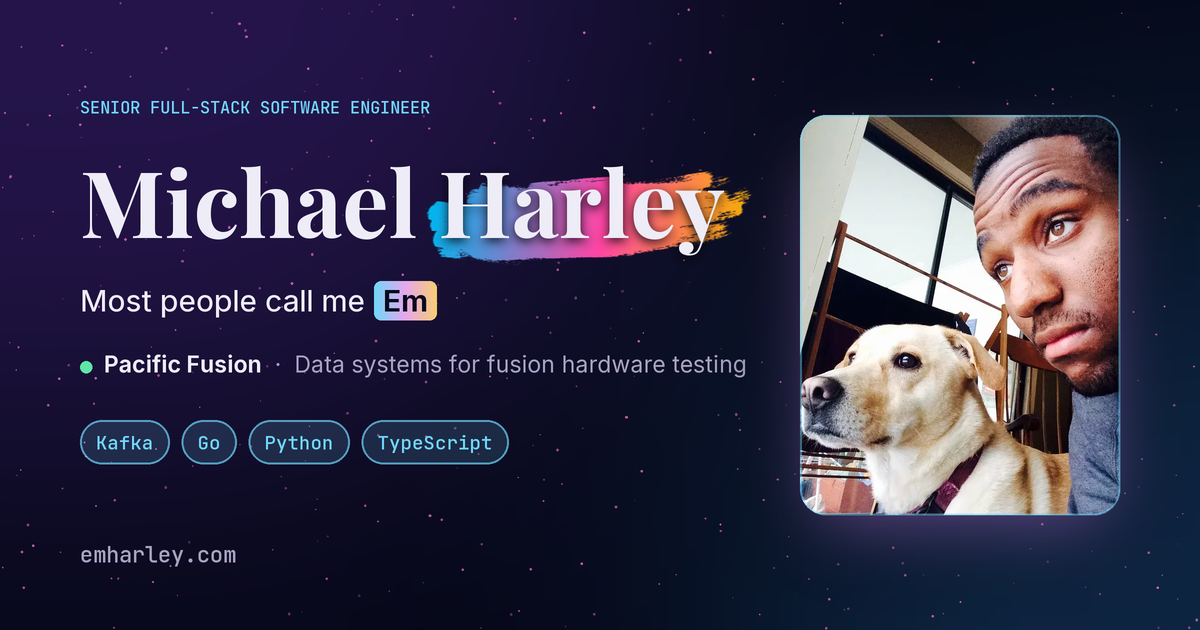
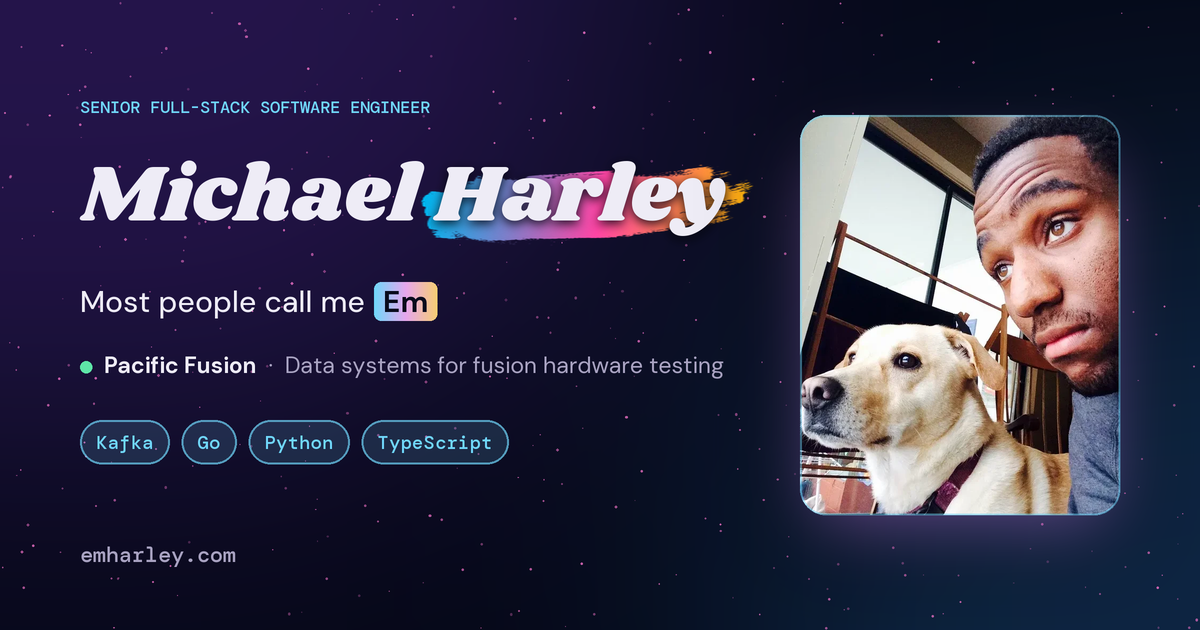
Switch to Shrikhand, DM Sans, and DM Mono
Shrikhand is kept to the hero name, section and page titles, and the
nav brand; longer headings use bold DM Sans. The social preview is
regenerated with the new fonts.

diff --git a/src/index.css b/src/index.css
@@ -1,8 +1,7 @@
-@import '@fontsource/playfair-display/latin-600.css';
-@import '@fontsource/playfair-display/latin-700.css';
-@import '@fontsource-variable/inter/wght.css';
-@import '@fontsource/jetbrains-mono/latin-400.css';
-@import '@fontsource/jetbrains-mono/latin-500.css';
+@import '@fontsource/shrikhand/latin-400.css';
+@import '@fontsource-variable/dm-sans/wght.css';
+@import '@fontsource/dm-mono/latin-400.css';
+@import '@fontsource/dm-mono/latin-500.css';
 /* Only scan src/ for class names (not docs or design mockups). */
 @import 'tailwindcss' source('.');
 
@@ -11,9 +10,9 @@
  * text-muted, and border-line; each --font-* becomes font-serif etc.
  */
 @theme {
-  --font-sans: 'Inter Variable', system-ui, sans-serif;
-  --font-serif: 'Playfair Display', Georgia, serif;
-  --font-mono: 'JetBrains Mono', ui-monospace, monospace;
+  --font-sans: 'DM Sans Variable', system-ui, sans-serif;
+  --font-serif: 'Shrikhand', Georgia, serif;
+  --font-mono: 'DM Mono', ui-monospace, monospace;
 
   /* rem, like Tailwind's built-in sm/xl, so all breakpoints sort correctly. */
   --breakpoint-md: 48rem; /* 768px */
@@ -102,6 +101,10 @@
   body {
     min-width: 320px;
     line-height: 1.65;
+  }
+  /* Shrikhand has one weight; never fake a bold version of it. */
+  .font-serif {
+    font-synthesis-weight: none;
   }
   /* Long words (e.g. "Medicare-compliant") break instead of overflowing at large text sizes. */
   h1,

diff --git a/src/pages/FaqPage.tsx b/src/pages/FaqPage.tsx
@@ -69,7 +69,10 @@ export default function FaqPage() {
             className="flex flex-wrap items-center justify-between gap-6 rounded-2xl border border-line bg-surface p-7"
           >
             <div>
-              <h2 id="faq-contact" className="font-serif text-2xl font-bold">
+              <h2
+                id="faq-contact"
+                className="text-2xl font-bold tracking-tight"
+              >
                 Still have a question?
               </h2>
               <p className="mt-1 text-muted">

diff --git a/src/components/AiInProduction.tsx b/src/components/AiInProduction.tsx
@@ -10,7 +10,7 @@ export default function AiInProduction() {
       <p className="eyebrow text-sm text-violet">AI in production</p>
       <h3
         id="ai-heading"
-        className="mt-3 max-w-[34em] font-serif text-2xl leading-snug font-bold md:text-3xl"
+        className="mt-3 max-w-[34em] text-2xl leading-snug font-bold tracking-tight md:text-3xl"
       >
         I put AI where it changes an outcome, and I measure it by the result.
       </h3>

diff --git a/src/components/CaseStudy.tsx b/src/components/CaseStudy.tsx
@@ -87,7 +87,7 @@ export default function CaseStudy(study: CaseStudyData) {
           <p className="eyebrow text-sm text-violet">{sector}</p>
           <h2
             id={`${id}-title`}
-            className="mt-2.5 font-serif text-[length:clamp(1.9rem,3.4vw,2.6rem)] leading-tight font-bold"
+            className="mt-2.5 text-[length:clamp(1.9rem,3.4vw,2.6rem)] leading-tight font-bold tracking-tight"
           >
             {title}
           </h2>

diff --git a/src/pages/CaseStudiesPage.tsx b/src/pages/CaseStudiesPage.tsx
@@ -64,7 +64,7 @@ export default function CaseStudiesPage() {
             <div>
               <h2
                 id="case-studies-contact"
-                className="font-serif text-2xl font-bold"
+                className="text-2xl font-bold tracking-tight"
               >
                 Want to go deeper on any of these?
               </h2>

diff --git a/src/components/ContactDialog.tsx b/src/components/ContactDialog.tsx
@@ -26,7 +26,7 @@ export default function ContactDialog() {
             <div>
               <h2
                 id="contact-dialog-title"
-                className="font-serif text-2xl font-bold"
+                className="text-2xl font-bold tracking-tight"
               >
                 Send me a message
               </h2>

diff --git a/scripts/brand-assets.py b/scripts/brand-assets.py
@@ -16,9 +16,9 @@ from fontTools.pens.transformPen import TransformPen
 
 ROOT = Path(__file__).resolve().parent.parent
 FONTS = ROOT / 'node_modules/@fontsource'
-PLAYFAIR = FONTS / 'playfair-display/files/playfair-display-latin-700-normal.woff'
-INTER = ROOT / 'node_modules/@fontsource-variable/inter/files/inter-latin-wght-normal.woff2'
-MONO = FONTS / 'jetbrains-mono/files/jetbrains-mono-latin-500-normal.woff'
+SERIF = FONTS / 'shrikhand/files/shrikhand-latin-400-normal.woff'
+SANS = ROOT / 'node_modules/@fontsource-variable/dm-sans/files/dm-sans-latin-wght-normal.woff2'
+MONO = FONTS / 'dm-mono/files/dm-mono-latin-500-normal.woff'
 PUBLIC = ROOT / 'public'
 
 NIGHT = (5, 8, 22)
@@ -49,7 +49,7 @@ def gradient(width, height, stops=GRADIENT, angle=0):
 
 
 def inter(size, weight):
-    font = ImageFont.truetype(str(INTER), size)
+    font = ImageFont.truetype(str(SANS), size)
     font.set_variation_by_axes([weight])
     return font
 
@@ -67,7 +67,7 @@ def favicon_png(size):
     s = size * scale
     tile = gradient(s, s, angle=35)
     draw = ImageDraw.Draw(tile)
-    font = ImageFont.truetype(str(PLAYFAIR), round(s * 0.56))
+    font = ImageFont.truetype(str(SERIF), round(s * 0.56))
     box = draw.textbbox((0, 0), 'Em', font=font)
     x = (s - (box[2] - box[0])) / 2 - box[0]
     y = (s - (box[3] - box[1])) / 2 - box[1] - s * 0.01
@@ -79,7 +79,7 @@ def favicon_png(size):
 
 def favicon_svg():
     """Glyphs as paths, so the icon looks the same without the font installed."""
-    font = TTFont(str(PLAYFAIR))
+    font = TTFont(str(SERIF))
     glyphs = font.getGlyphSet()
     cmap = font.getBestCmap()
     units = font['head'].unitsPerEm
@@ -139,7 +139,7 @@ def social_preview():
     draw.text((left, 96 * S), 'SENIOR FULL-STACK SOFTWARE ENGINEER', font=ImageFont.truetype(str(MONO), 17 * S), fill=ACCENT)
 
     # Name with the brushstroke behind "Harley"
-    serif = ImageFont.truetype(str(PLAYFAIR), 92 * S)
+    serif = ImageFont.truetype(str(SERIF), 80 * S)
     name_y = 138 * S
     draw.text((left, name_y), 'Michael', font=serif, fill=SNOW)
     hx = left + draw.textlength('Michael ', font=serif)
